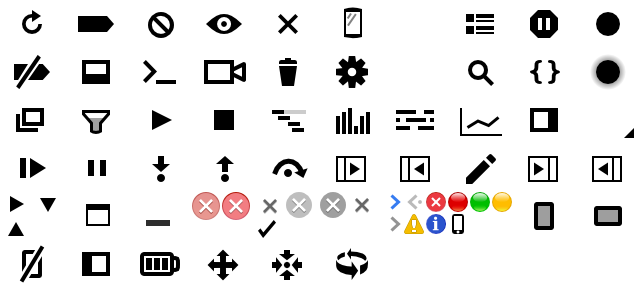
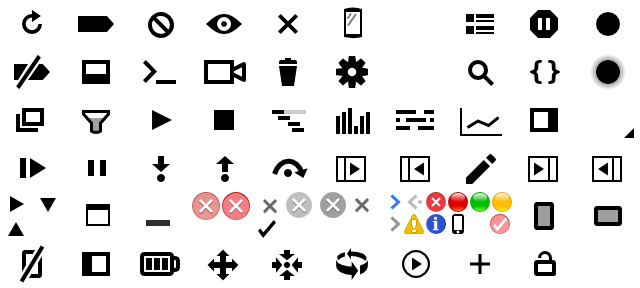
Devtools: [SSP] use Toolbar for Add New rule and etc buttons
BUG=

Review URL: https://codereview.chromium.org/1100153002

git-svn-id: svn://svn.chromium.org/blink/trunk@194372 bbb929c8-8fbe-4397-9dbb-9b2b20218538

diff --git a/Source/devtools/front_end/elements/StylesSidebarPane.js b/Source/devtools/front_end/elements/StylesSidebarPane.js
@@ -37,36 +37,28 @@ WebInspector.StylesSidebarPane = function(computedStylePane, requestShowCallback
 {
     WebInspector.ElementsSidebarPane.call(this, WebInspector.UIString("Styles"));
 
-    if (!Runtime.experiments.isEnabled("animationInspection")) {
-        this._animationsControlButton = createElement("button");
-        this._animationsControlButton.className = "pane-title-button animations-controls";
-        this._animationsControlButton.title = WebInspector.UIString("Animations Controls");
-        this._animationsControlButton.addEventListener("click", this._toggleAnimationsControlPane.bind(this), false);
-        this.titleElement.appendChild(this._animationsControlButton);
-    }
-
-    this._elementStateButton = createElement("button");
-    this._elementStateButton.className = "pane-title-button element-state";
-    this._elementStateButton.title = WebInspector.UIString("Toggle Element State");
-    this._elementStateButton.addEventListener("click", this._toggleElementStatePane.bind(this), false);
-    this.titleElement.appendChild(this._elementStateButton);
-
-    var addButton = createElement("button");
-    addButton.className = "pane-title-button add";
-    addButton.id = "add-style-button-test-id";
-    addButton.title = WebInspector.UIString("New Style Rule");
-    addButton.addEventListener("click", this._createNewRuleInViaInspectorStyleSheet.bind(this), false);
-    this.titleElement.appendChild(addButton);
-    addButton.createChild("div", "long-click-glyph fill");
-
-    this._addButtonLongClickController = new WebInspector.LongClickController(addButton);
-    this._addButtonLongClickController.addEventListener(WebInspector.LongClickController.Events.LongClick, this._onAddButtonLongClick.bind(this));
-    this._addButtonLongClickController.enable();
-
     this._computedStylePane = computedStylePane;
     computedStylePane.setHostingPane(this);
     this.element.addEventListener("contextmenu", this._contextMenuEventFired.bind(this), true);
     WebInspector.moduleSetting("colorFormat").addChangeListener(this._colorFormatSettingChanged.bind(this));
+
+    var toolbar = new WebInspector.Toolbar(this.titleElement);
+    toolbar.element.classList.add("styles-pane-toolbar");
+    toolbar.makeNarrow();
+
+    var addNewStyleRuleButton = new WebInspector.ToolbarButton(WebInspector.UIString("New Style Rule"), "add-toolbar-item");
+    addNewStyleRuleButton.makeLongClickEnabled();
+    addNewStyleRuleButton.addEventListener("click", this._createNewRuleInViaInspectorStyleSheet, this);
+    addNewStyleRuleButton.addEventListener("longClickDown", this._onAddButtonLongClick, this);
+    toolbar.appendToolbarItem(addNewStyleRuleButton);
+
+    this._elementStateButton = new WebInspector.ToolbarButton(WebInspector.UIString("Toggle Element State"), "element-state-toolbar-item");
+    this._elementStateButton.addEventListener("click", this._toggleElementStatePane, this);
+    toolbar.appendToolbarItem(this._elementStateButton);
+
+    this._animationsControlButton = new WebInspector.ToolbarButton(WebInspector.UIString("Animations Controls"), "animation-toolbar-item");
+    this._animationsControlButton.addEventListener("click", this._toggleAnimationsControlPane, this);
+    toolbar.appendToolbarItem(this._animationsControlButton);
 
     this._requestShowCallback = requestShowCallback;
 
@@ -165,7 +157,6 @@ WebInspector.StylesSidebarPane.prototype = {
      */
     _onAddButtonLongClick: function(event)
     {
-        this._addButtonLongClickController.reset();
         var cssModel = this._cssModel;
         var headers = cssModel.styleSheetHeaders().filter(styleSheetResourceHeader);
 
@@ -330,8 +321,8 @@ WebInspector.StylesSidebarPane.prototype = {
             return;
 
         var hasPseudoType = !!node.pseudoType();
-        this._elementStateButton.classList.toggle("hidden", hasPseudoType);
-        this._elementStatePane.classList.toggle("expanded", !hasPseudoType && this._elementStateButton.classList.contains("toggled"));
+        this._elementStateButton.setEnabled(!hasPseudoType);
+        this._elementStatePane.classList.toggle("expanded", !hasPseudoType && this._elementStateButton.toggled());
 
         var nodePseudoState = this._forcedPseudoClasses();
         if (!nodePseudoState)
@@ -816,10 +807,7 @@ WebInspector.StylesSidebarPane.prototype = {
         }
     },
 
-    /**
-     * @param {?Event} event
-     */
-    _createNewRuleInViaInspectorStyleSheet: function(event)
+    _createNewRuleInViaInspectorStyleSheet: function()
     {
         var cssModel = this._cssModel;
         this._userOperation = true;
@@ -894,19 +882,14 @@ WebInspector.StylesSidebarPane.prototype = {
         }
     },
 
-    /**
-     * @param {!Event} event
-     */
-    _toggleElementStatePane: function(event)
+    _toggleElementStatePane: function()
     {
-        event.consume();
-
-        var buttonToggled = !this._elementStateButton.classList.contains("toggled");
+        var buttonToggled = !this._elementStateButton.toggled();
         if (buttonToggled)
             this.expand();
-        this._elementStateButton.classList.toggle("toggled", buttonToggled);
+        this._elementStateButton.setToggled(buttonToggled);
         this._elementStatePane.classList.toggle("expanded", buttonToggled);
-        this._animationsControlButton.classList.remove("toggled");
+        this._animationsControlButton.setToggled(false);
         this._animationsControlPane.element.classList.remove("expanded");
     },
 
@@ -959,19 +942,14 @@ WebInspector.StylesSidebarPane.prototype = {
         this._elementStatePane.appendChild(table);
     },
 
-        /**
-     * @param {!Event} event
-     */
-    _toggleAnimationsControlPane: function(event)
+    _toggleAnimationsControlPane: function()
     {
-        event.consume();
-
-        var buttonToggled = !this._animationsControlButton.classList.contains("toggled");
+        var buttonToggled = !this._animationsControlButton.toggled();
         if (buttonToggled)
             this.expand();
-        this._animationsControlButton.classList.toggle("toggled", buttonToggled);
+        this._animationsControlButton.setToggled(buttonToggled);
         this._animationsControlPane.element.classList.toggle("expanded", buttonToggled);
-        this._elementStateButton.classList.remove("toggled");
+        this._elementStateButton.setToggled(false);
         this._elementStatePane.classList.remove("expanded");
     },
 

diff --git a/Source/devtools/front_end/ui/Toolbar.js b/Source/devtools/front_end/ui/Toolbar.js
@@ -336,7 +336,8 @@ WebInspector.ToolbarButtonBase.prototype = {
      */
     _onLongClick: function(event)
     {
-        this.dispatchEventToListeners("longClickDown");
+        var nativeEvent = event.data;
+        this.dispatchEventToListeners("longClickDown", nativeEvent);
     },
 
     /**
@@ -344,7 +345,8 @@ WebInspector.ToolbarButtonBase.prototype = {
      */
     _onLongPress: function(event)
     {
-        this.dispatchEventToListeners("longPressDown");
+        var nativeEvent = event.data;
+        this.dispatchEventToListeners("longPressDown", nativeEvent);
     },
 
     _clicked: function()
@@ -433,11 +435,14 @@ WebInspector.ToolbarButtonBase.prototype = {
     makeLongClickEnabled: function()
     {
         this._longClickController.enable();
+        this._longClickGlyph = this.element.createChild("div", "fill long-click-glyph toolbar-button-theme");
     },
 
     unmakeLongClickEnabled: function()
     {
         this._longClickController.disable();
+        if (this._longClickGlyph)
+            this.element.removeChild(this._longClickGlyph);
     },
 
     /**
@@ -449,13 +454,10 @@ WebInspector.ToolbarButtonBase.prototype = {
             if (!this._longClickOptionsData) {
                 this.makeLongClickEnabled();
 
-                this.longClickGlyph = this.element.createChild("div", "fill long-click-glyph toolbar-button-theme");
-
                 var longClickDownListener = this._showOptions.bind(this);
                 this.addEventListener("longClickDown", longClickDownListener, this);
 
                 this._longClickOptionsData = {
-                    glyphElement: this.longClickGlyph,
                     longClickDownListener: longClickDownListener
                 };
             }
@@ -463,7 +465,6 @@ WebInspector.ToolbarButtonBase.prototype = {
         } else {
             if (!this._longClickOptionsData)
                 return;
-            this.element.removeChild(this._longClickOptionsData.glyphElement);
 
             this.removeEventListener("longClickDown", this._longClickOptionsData.longClickDownListener, this);
             delete this._longClickOptionsData;

diff --git a/Source/devtools/front_end/sidebarPane.css b/Source/devtools/front_end/sidebarPane.css
@@ -148,28 +148,8 @@
     background-position: -46px 0;
 }
 
-.sidebar-pane-toolbar > .pane-title-button.add {
-    background-image: url(Images/paneAddButtons.png);
-    position: relative;
-}
-
-.sidebar-pane-toolbar > .pane-title-button.add .long-click-glyph {
-    background-color: rgba(135, 135, 135, 1);
-    -webkit-mask-image: url(Images/toolbarButtonGlyphs.png);
-    -webkit-mask-position: -298px -53px;
-    -webkit-mask-size: 320px 144px;
-}
-
-.sidebar-pane-toolbar > .pane-title-button.element-state {
-    background-image: url(Images/paneElementStateButtons.png);
-}
-
 .sidebar-pane-toolbar > .pane-title-button.refresh {
     background-image: url(Images/paneRefreshButtons.png);
-}
-
-.sidebar-pane-toolbar > .pane-title-button.animations-controls {
-    background-image: url(Images/paneAnimationsButtons.png);
 }
 
 .sidebar-pane-toolbar > label.scripts-callstack-async {

diff --git a/Source/devtools/front_end/ui/toolbar.css b/Source/devtools/front_end/ui/toolbar.css
@@ -92,6 +92,11 @@
     height: 24px;
 }
 
+.narrow .long-click-glyph {
+    top: -2px;
+    left: -7px;
+}
+
 .material .long-click-glyph {
     top: 2px;
 }
@@ -459,6 +464,18 @@ button.record-toolbar-item.toggled-on .glyph {
 
 .rotate-toolbar-item .glyph {
     -webkit-mask-position: -160px -120px;
+}
+
+.element-state-toolbar-item .glyph {
+    -webkit-mask-position: -256px -120px;
+}
+
+.animation-toolbar-item .glyph {
+    -webkit-mask-position: -192px -120px;
+}
+
+.add-toolbar-item .glyph {
+    -webkit-mask-position: -224px -120px;
 }
 
 .case-sensitive-search-toolbar-item.toggled-on .toolbar-button-text {

diff --git a/LayoutTests/inspector/elements/styles/style-update-during-selector-edit.html b/LayoutTests/inspector/elements/styles/style-update-during-selector-edit.html
@@ -34,7 +34,7 @@ function test()
         InspectorTest.addSniffer(WebInspector.StylesSidebarPane.prototype, "doUpdate", rebuildUpdate);
         InspectorTest.domModel.addEventListener(WebInspector.DOMModel.Events.AttrModified, attributeChanged, this);
         // Click "Add new rule".
-        document.getElementById("add-style-button-test-id").click();
+        document.querySelector(".styles-pane-toolbar /deep/ .add-toolbar-item").click();
         InspectorTest.evaluateInPage("addStyleClass()", step2);
     }
 

diff --git a/LayoutTests/http/tests/inspector/elements-test.js b/LayoutTests/http/tests/inspector/elements-test.js
@@ -947,7 +947,7 @@ InspectorTest.addNewRuleInStyleSheet = function(styleSheetHeader, selector, call
 InspectorTest.addNewRule = function(selector, callback)
 {
     // Click "Add new rule".
-    document.getElementById("add-style-button-test-id").click();
+    document.querySelector(".styles-pane-toolbar /deep/ .add-toolbar-item").click();
     InspectorTest.addSniffer(WebInspector.StylesSidebarPane.prototype, "_addBlankSection", onBlankSection.bind(null, selector, callback));
 }
 

diff --git a/Source/devtools/front_end/elements/elementsPanel.css b/Source/devtools/front_end/elements/elementsPanel.css
@@ -753,3 +753,8 @@ label.checkbox-with-label {
     margin: -1px -6px -8px -6px;
     text-overflow: clip;
 }
+
+.styles-pane-toolbar {
+    float: right;
+    margin-top: -3px;
+}
